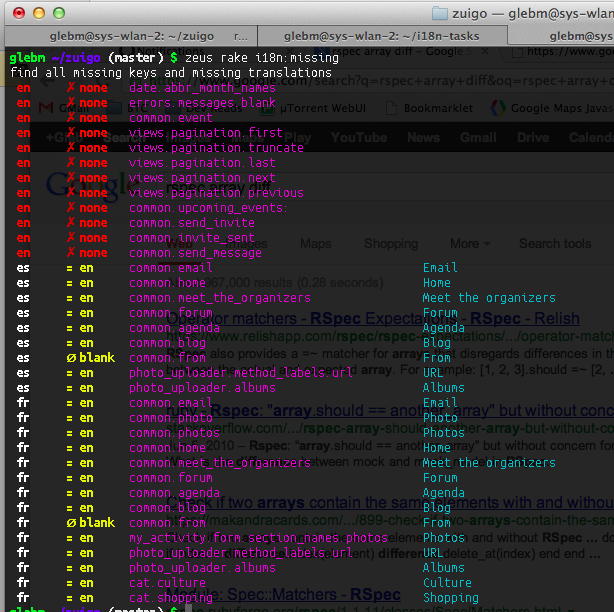
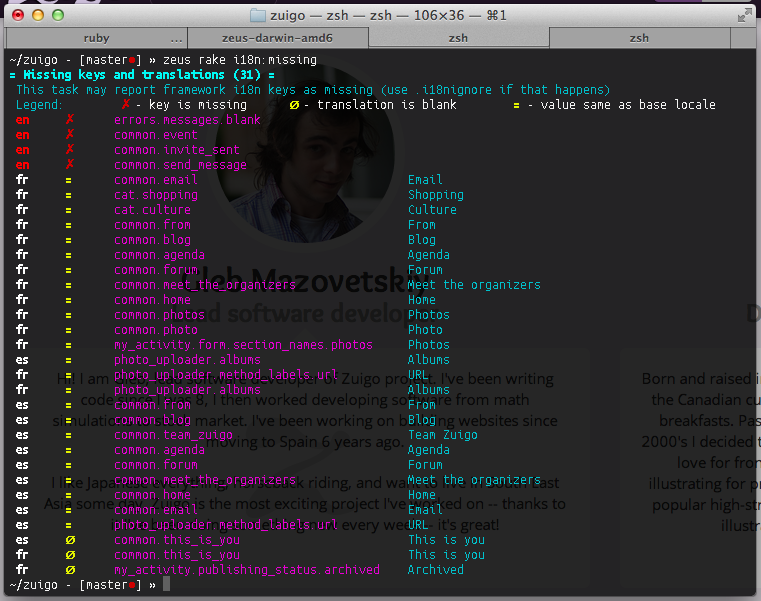
v0.0.5 .i18nignore file

Changed region(s): [[0.0, 0.0, 1.0, 1.0]]

diff --git a/lib/i18n/tasks/base_task.rb b/lib/i18n/tasks/base_task.rb
@@ -1,9 +1,87 @@
-require 'i18n/tasks/task_helpers'
+require 'open3'
+require 'term/ansicolor'
 
 module I18n
   module Tasks
     class BaseTask
-      include TaskHelpers
+      include Term::ANSIColor
+
+      def run_command(*args)
+        _in, out, _err = Open3.popen3(*args)
+        out.gets nil
+      end
+
+      # locale data hash, with locale name as root
+      def get_locale_data(locale)
+        # todo multiple files, configuration option
+        YAML.load_file "config/locales/#{locale}.yml"
+      end
+
+      # main locale file path (for writing to)
+      def locale_file_path(locale)
+        "config/locales/#{locale}.yml"
+      end
+
+      # find all keys in the source
+      def find_source_keys
+        @source_keys ||= begin
+          grep_out  = run_command 'grep', '-horI', %q{\\bt(\\?\\s*['"]\\([^'"]*\\)['"]}, 'app/'
+          used_keys = grep_out.split("\n").map { |r| r.match(/['"](.*?)['"]/)[1] }.uniq.to_set
+          used_keys = used_keys.reject { |k| k !~ /^[\w.\#{}]+$/ }
+          exclude_patterns used_keys, ignore_patterns
+        end
+      end
+
+      def exclude_patterns(keys, patterns)
+        keys.reject do |k|
+          patterns.any? { |pattern| k == pattern || pattern.end_with?('.') && k.start_with?(pattern) }
+        end
+      end
+
+      IGNORE_FILE = '.i18nignore'
+
+      def ignore_patterns
+        @ignored_patterns ||= begin
+          if File.exists?(IGNORE_FILE)
+            File.read(IGNORE_FILE).split("\n").map {|k|
+              k.split('#')[0].strip.presence
+            }.compact.uniq
+          else
+            []
+          end
+        end
+      end
+
+      def find_source_pattern_keys
+        find_source_keys.select { |k| k =~ /\#{.*?}/ || k.ends_with?('.') }
+      end
+
+      def find_source_pattern_prefixes
+        find_source_pattern_keys.map { |k| k.split(/\.?#/)[0] }
+      end
+
+      # traverse hash, yielding with full key and value
+      def traverse(path = '', hash, &block)
+        hash.each do |k, v|
+          if v.is_a?(Hash)
+            traverse("#{path}.#{k}", v, &block)
+          else
+            block.call("#{path}.#{k}"[1..-1], v)
+          end
+        end
+      end
+
+      def t(hash, key)
+        key.split('.').inject(hash) { |r, seg| r.try(:[], seg) }
+      end
+
+      def base_locale
+        I18n.default_locale.to_s
+      end
+
+      def base
+        @base ||= get_locale_data(base_locale)
+      end
     end
   end
 end

diff --git a/lib/i18n/tasks/task_helpers.rb b/lib/i18n/tasks/task_helpers.rb
@@ -1,65 +1,9 @@
 # coding: utf-8
-require 'open3'
-require 'term/ansicolor'
+
 
 module I18n
   module Tasks
     module TaskHelpers
-      include Term::ANSIColor
-      def run_command(*args)
-        _in, out, _err = Open3.popen3(*args)
-        out.gets nil
-      end
 
-      # locale data hash, with locale name as root
-      def get_locale_data(locale)
-        # todo multiple files, configuration option
-        YAML.load_file "config/locales/#{locale}.yml"
-      end
-
-      # main locale file path (for writing to)
-      def locale_file_path(locale)
-        "config/locales/#{locale}.yml"
-      end
-
-      # find all keys in the source
-      def find_source_keys
-        @source_keys ||= begin
-          grep_out = run_command 'grep', '-horI', %q{\\bt(\\?\\s*['"]\\([^'"]*\\)['"]}, 'app/'
-          used_keys = grep_out.split("\n").map { |r| r.match(/['"](.*?)['"]/)[1] }.uniq.to_set
-        end
-      end
-
-      def find_source_pattern_keys
-        find_source_keys.select { |k| k =~ /\#{.*?}/ || k.ends_with?('.') }
-      end
-
-      def find_source_pattern_prefixes
-        find_source_pattern_keys.map { |k| k.split(/\.?#/)[0] }
-      end
-
-      # traverse hash, yielding with full key and value
-      def traverse(path = '', hash, &block)
-        hash.each do |k, v|
-          if v.is_a?(Hash)
-            traverse("#{path}.#{k}", v, &block)
-          else
-            block.call("#{path}.#{k}"[1..-1], v)
-          end
-        end
-      end
-
-      def t(hash, key)
-        key.split('.').inject(hash) { |r, seg| r.try(:[], seg) }
-      end
-
-      def base_locale
-        I18n.default_locale.to_s
-      end
-
-      def base
-        @base ||= get_locale_data(base_locale)
-      end
-    end
   end
 end

diff --git a/spec/i18n_tasks_spec.rb b/spec/i18n_tasks_spec.rb
@@ -45,11 +45,17 @@ describe 'rake i18n' do
     fs = {
         'config/locales/en.yml'     => {'en' => en_data}.to_yaml,
         'config/locales/es.yml'     => {'es' => es_data}.to_yaml,
+        '.i18nignore' => <<-TEXT,
+        ignored_missing_key.a # one key to ignore
+        ignored_pattern.      # ignore the whole pattern
+        TEXT
         'app/views/index.html.slim' => <<-SLIM,
         p \#{t('ca.a')} \#{t 'ca.b'} \#{t "ca.c"}
         p \#{t 'ca.d'} \#{t 'ca.f', i: 'world'} \#{t 'ca.e', i: 'world'}
         p \#{t 'missing_in_es.a'} \#{t 'same_in_es.a'} \#{t 'blank_in_es.a'}
         p = t 'used_but_missing.a'
+        p = t 'ignored_missing_key.a'
+        p = t 'ignored_pattern.some_key'
         SLIM
         'app/controllers/events_controller.slim' => <<-RUBY,
         class EventsController < ApplicationController

diff --git a/lib/i18n/tasks/missing.rb b/lib/i18n/tasks/missing.rb
@@ -9,10 +9,12 @@ module I18n
       def perform
         missing = find_missing
         STDERR.puts bold cyan("= #{DESC} (#{missing.length}) =")
+        STDERR.puts cyan(" This task may report framework i18n keys as missing (use .i18nignore if that happens)")
+        STDERR.puts cyan " Legend:\t#{red '✗'} - key is missing\t#{yellow bold '∅'} - translation is blank\t#{yellow bold '='} - value same as base locale"
         status_texts = {
-            none: red("✗ #{bold 'none'}".ljust(19)),
-            blank: yellow(bold '∅ blank'.ljust(11)),
-            eq_base: yellow(bold "= #{base_locale.ljust(9)}")
+            none: red("✗".ljust(6)),
+            blank: yellow(bold '∅'.ljust(6)),
+            eq_base: yellow(bold "=".ljust(6))
         }
 
         missing.sort_by { |m| m[:type] }.reverse_each do |m|

diff --git a/lib/i18n/tasks/version.rb b/lib/i18n/tasks/version.rb
@@ -1,5 +1,5 @@
 module I18n
   module Tasks
-    VERSION = '0.0.4'
+    VERSION = '0.0.5'
   end
 end

diff --git a/README.md b/README.md
@@ -16,6 +16,12 @@ Use `rake -T i18n` to get the list of tasks with descriptions. There are 3 tasks
     t 'category.' + category.key # 'category.arts_and_crafts' considered used
     t "category.#{category.key}" # also works
 
+`i18n:missing` may incorrectly show framework i18n keys as missing, to work around this use `.i18nignore` file in project root:
+
+   devise.errors.unauthorized # ignore this key
+   pagination.views.          # ignore the whole pattern (note the .)
+
+
 For more examples see [the tests](https://github.com/glebm/i18n-tasks/blob/master/spec/i18n_tasks_spec.rb#L43-L59).
 
 Installation
@@ -23,7 +29,7 @@ Installation
 
 Simply add to Gemfile:
 
-    gem 'i18n-tasks', '~> 0.0.3'
+    gem 'i18n-tasks', '~> 0.0.5'
 
 Configuration
 -------------
